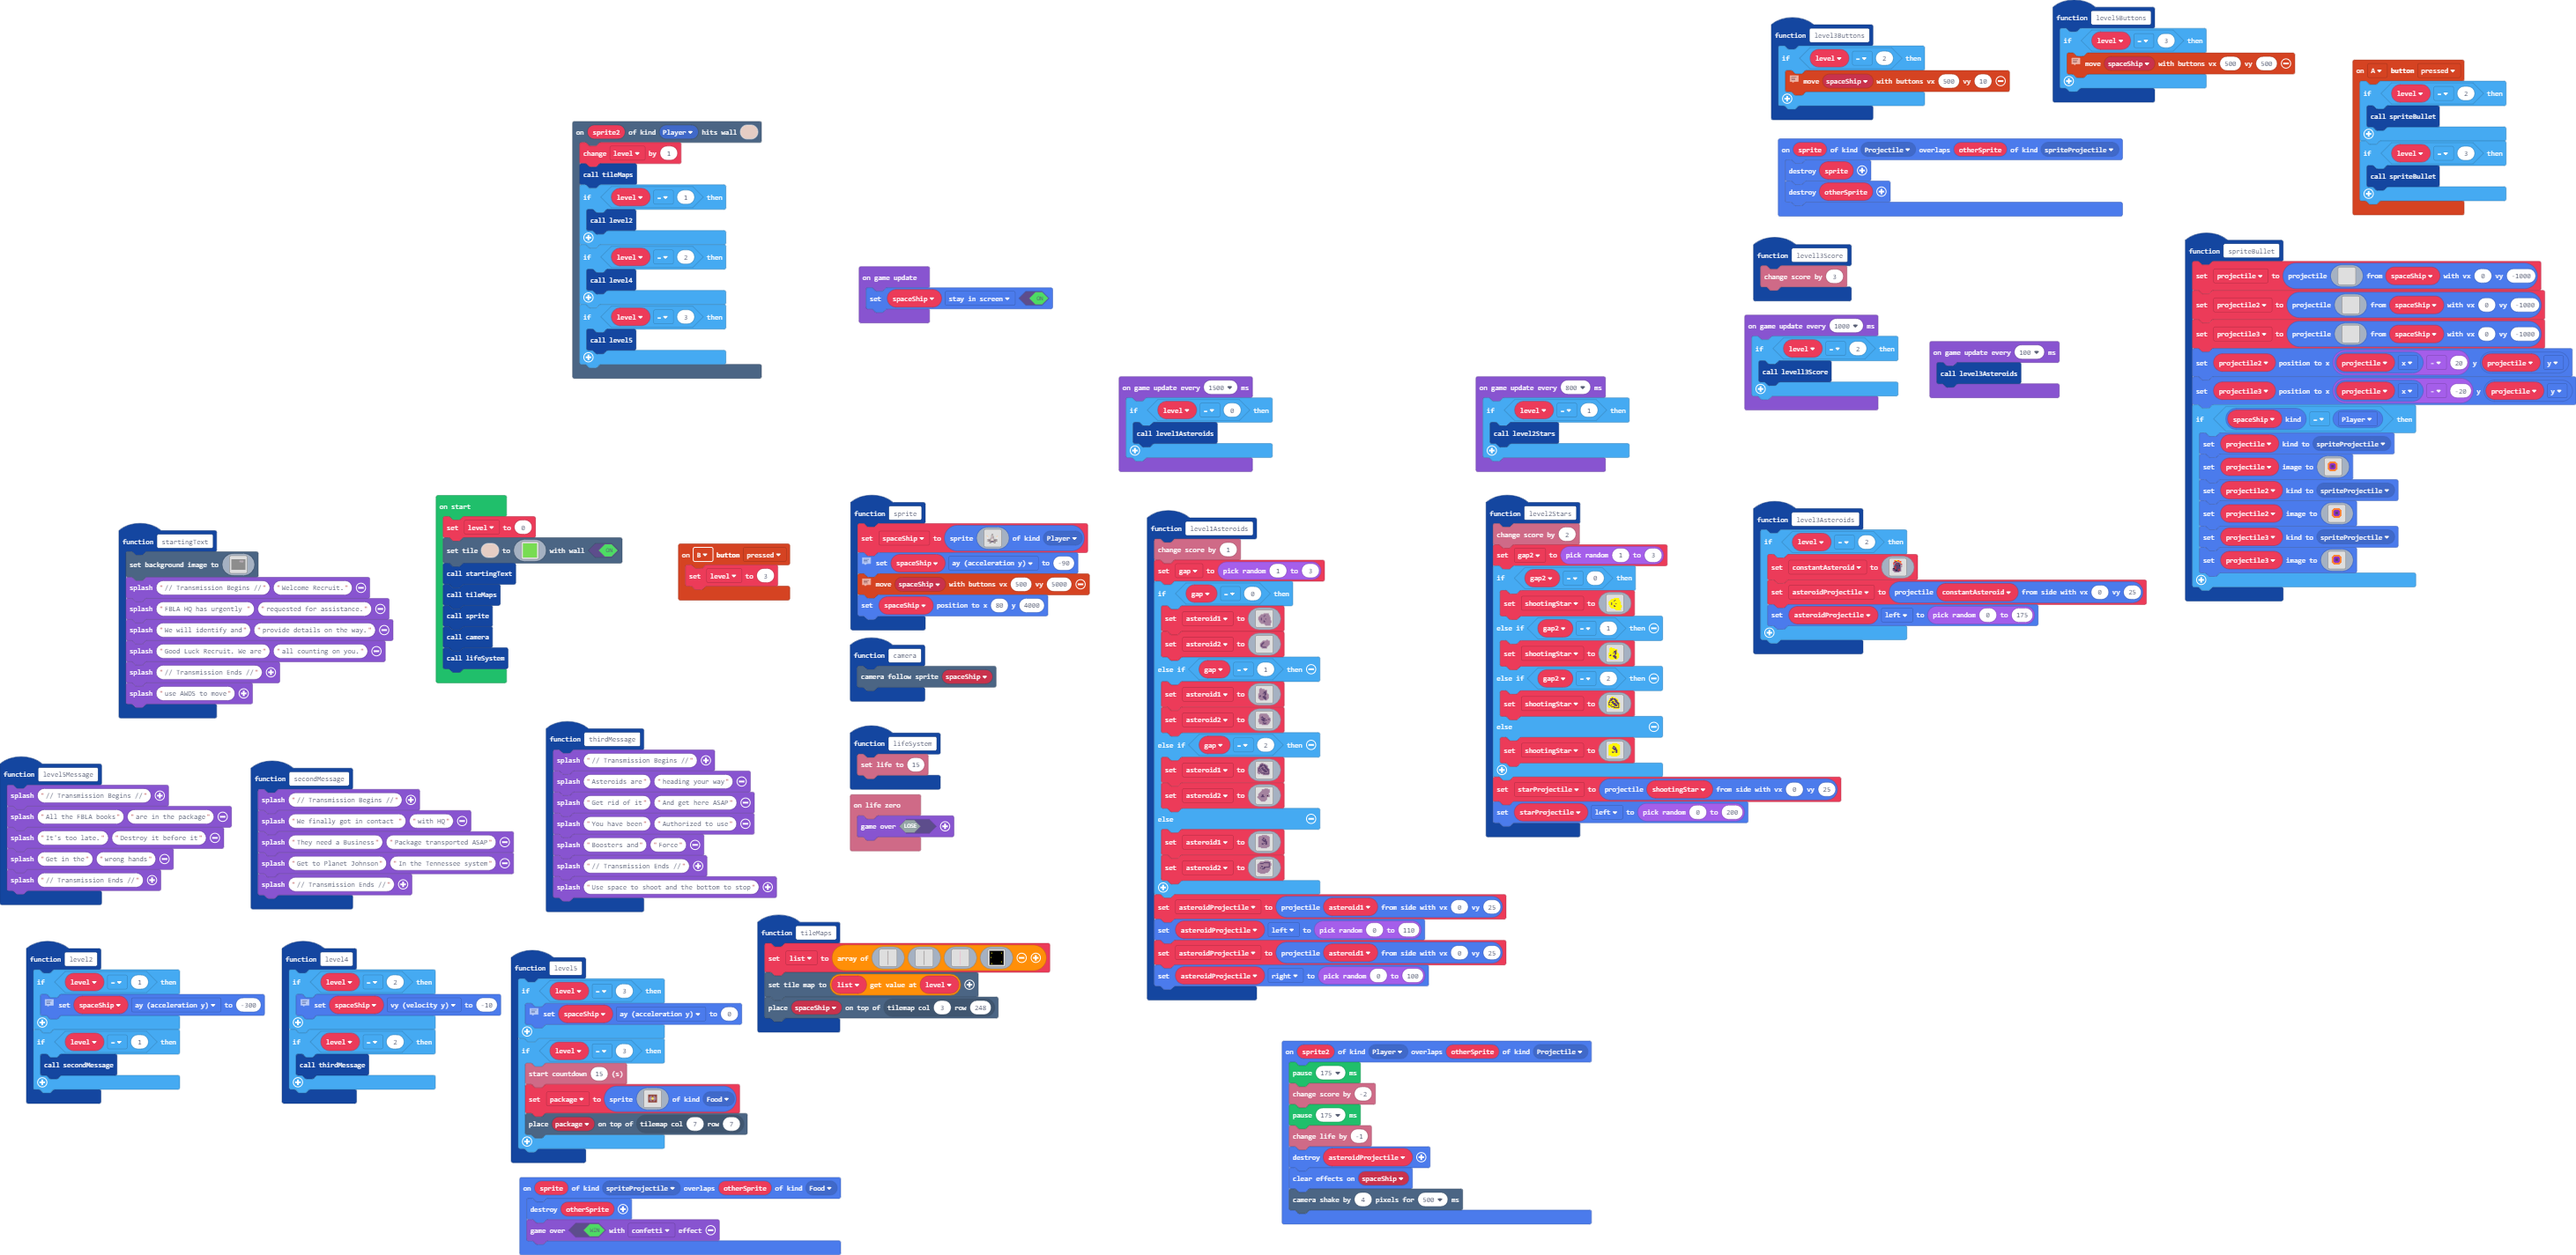
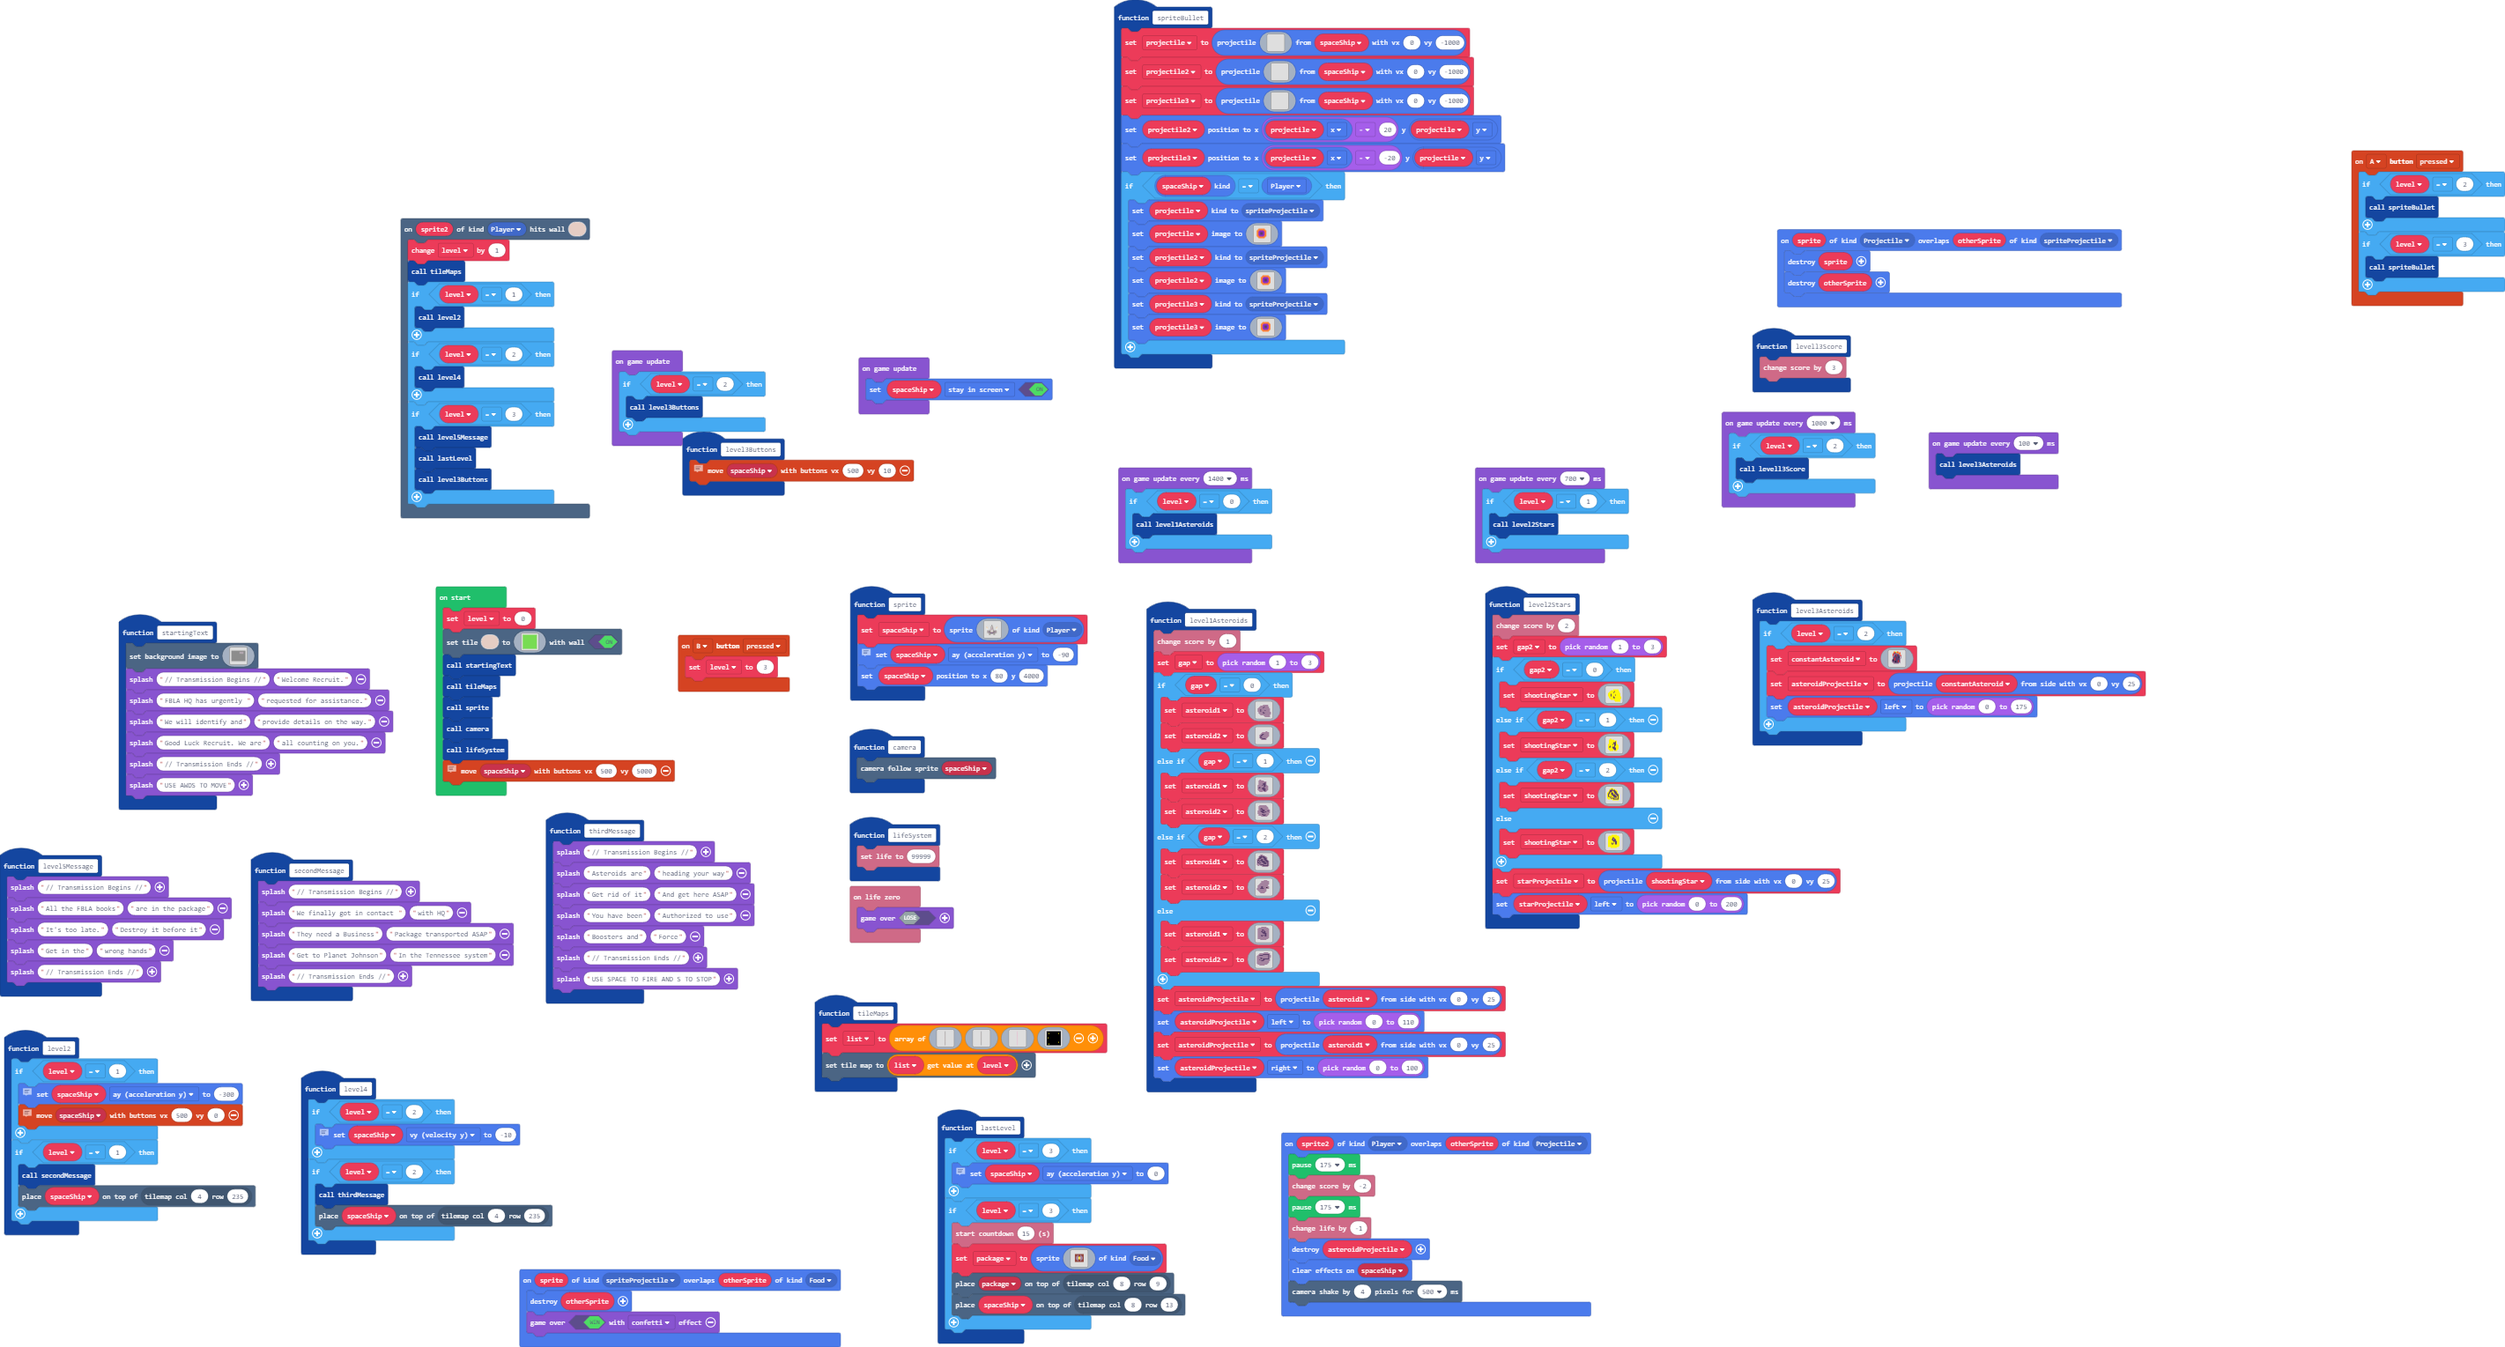
bugs fixed

diff --git a/main.ts b/main.ts
@@ -1,6 +1,10 @@
 namespace SpriteKind {
     export const spriteProjectile = SpriteKind.create()
 }
+function level3Buttons () {
+    // Allows you to move side to side
+    controller.moveSprite(spaceShip, 500, 10)
+}
 scene.onHitTile(SpriteKind.Player, 13, function (sprite2) {
     level += 1
     tileMaps()
@@ -11,7 +15,9 @@ scene.onHitTile(SpriteKind.Player, 13, function (sprite2) {
         level4()
     }
     if (level == 3) {
-        level5()
+        level5Message()
+        lastLevel()
+        level3Buttons()
     }
 })
 function level4 () {
@@ -21,6 +27,7 @@ function level4 () {
     }
     if (level == 2) {
         thirdMessage()
+        tiles.placeOnTile(spaceShip, tiles.getTileLocation(4, 235))
     }
 }
 function sprite () {
@@ -64,30 +71,9 @@ function sprite () {
 `, SpriteKind.Player)
     // makes spaceShip go up no matter what
     spaceShip.ay = -90
-    // Allows you to move side to side
-    controller.moveSprite(spaceShip, 500, 5000)
     spaceShip.setPosition(80, 4000)
 }
-function level5Buttons () {
-    if (level == 3) {
-        // Allows you to move side to side
-        controller.moveSprite(spaceShip, 500, 500)
-    }
-}
-function level3Buttons () {
-    if (level == 2) {
-        // Allows you to move side to side
-        controller.moveSprite(spaceShip, 500, 10)
-    }
-}
-function level5Message () {
-    game.splash("// Transmission Begins //")
-    game.splash("All the FBLA books", "are in the package")
-    game.splash("It's too late.", "Destroy it before it")
-    game.splash("Get in the", "wrong hands")
-    game.splash("// Transmission Ends //")
-}
-function level5 () {
+function lastLevel () {
     if (level == 3) {
         // makes spaceShip go up no matter what
         spaceShip.ay = 0
@@ -112,7 +98,8 @@ function level5 () {
 . . . . . . . . . . . . . . . . 
 . . . . . . . . . . . . . . . . 
 `, SpriteKind.Food)
-        tiles.placeOnTile(_package, tiles.getTileLocation(7, 7))
+        tiles.placeOnTile(_package, tiles.getTileLocation(8, 9))
+        tiles.placeOnTile(spaceShip, tiles.getTileLocation(8, 13))
     }
 }
 function level2Stars () {
@@ -205,9 +192,12 @@ function level2 () {
     if (level == 1) {
         // makes spaceShip go up no matter what
         spaceShip.ay = -300
+        // Allows you to move side to side
+        controller.moveSprite(spaceShip, 500, 0)
     }
     if (level == 1) {
         secondMessage()
+        tiles.placeOnTile(spaceShip, tiles.getTileLocation(4, 235))
     }
 }
 function secondMessage () {
@@ -218,7 +208,7 @@ function secondMessage () {
     game.splash("// Transmission Ends //")
 }
 function lifeSystem () {
-    info.setLife(15)
+    info.setLife(99999)
 }
 function camera () {
     scene.cameraFollowSprite(spaceShip)
@@ -1013,7 +1003,6 @@ f f 5 f f f f f f f f f f f f f
 f f f f f f f f f f f f f f f f 
 `]
     scene.setTileMap(list[level])
-    tiles.placeOnTile(spaceShip, tiles.getTileLocation(3, 248))
 }
 function startingText () {
     scene.setBackgroundImage(img`
@@ -1143,7 +1132,7 @@ f f f f f f f f f f f f f f f f f f f f f f f f f f f f f f f f f f f f f f f f 
     game.splash("We will identify and", "provide details on the way.")
     game.splash("Good Luck Recruit. We are", "all counting on you.")
     game.splash("// Transmission Ends //")
-    game.splash("use AWDS to move")
+    game.splash("USE AWDS TO MOVE")
 }
 function spriteBullet () {
     projectile = sprites.createProjectileFromSprite(img`
@@ -1266,6 +1255,13 @@ sprites.onOverlap(SpriteKind.spriteProjectile, SpriteKind.Food, function (sprite
     otherSprite.destroy()
     game.over(true, effects.confetti)
 })
+function level5Message () {
+    game.splash("// Transmission Begins //")
+    game.splash("All the FBLA books", "are in the package")
+    game.splash("It's too late.", "Destroy it before it")
+    game.splash("Get in the", "wrong hands")
+    game.splash("// Transmission Ends //")
+}
 function levell3Score () {
     info.changeScoreBy(3)
 }
@@ -1276,7 +1272,7 @@ function thirdMessage () {
     game.splash("You have been", "Authorized to use")
     game.splash("Boosters and", "Force")
     game.splash("// Transmission Ends //")
-    game.splash("Use space to shoot and the bottom to stop")
+    game.splash("USE SPACE TO FIRE AND S TO STOP")
 }
 sprites.onOverlap(SpriteKind.Projectile, SpriteKind.spriteProjectile, function (sprite2, otherSprite) {
     sprite2.destroy()
@@ -1505,18 +1501,25 @@ tileMaps()
 sprite()
 camera()
 lifeSystem()
+// Allows you to move side to side
+controller.moveSprite(spaceShip, 500, 5000)
 game.onUpdateInterval(100, function () {
     level3Asteroids()
 })
-game.onUpdateInterval(1500, function () {
+game.onUpdateInterval(1400, function () {
     if (level == 0) {
         level1Asteroids()
     }
 })
 game.onUpdate(function () {
+    if (level == 2) {
+        level3Buttons()
+    }
+})
+game.onUpdate(function () {
     spaceShip.setFlag(SpriteFlag.StayInScreen, true)
 })
-game.onUpdateInterval(800, function () {
+game.onUpdateInterval(700, function () {
     if (level == 1) {
         level2Stars()
     }
